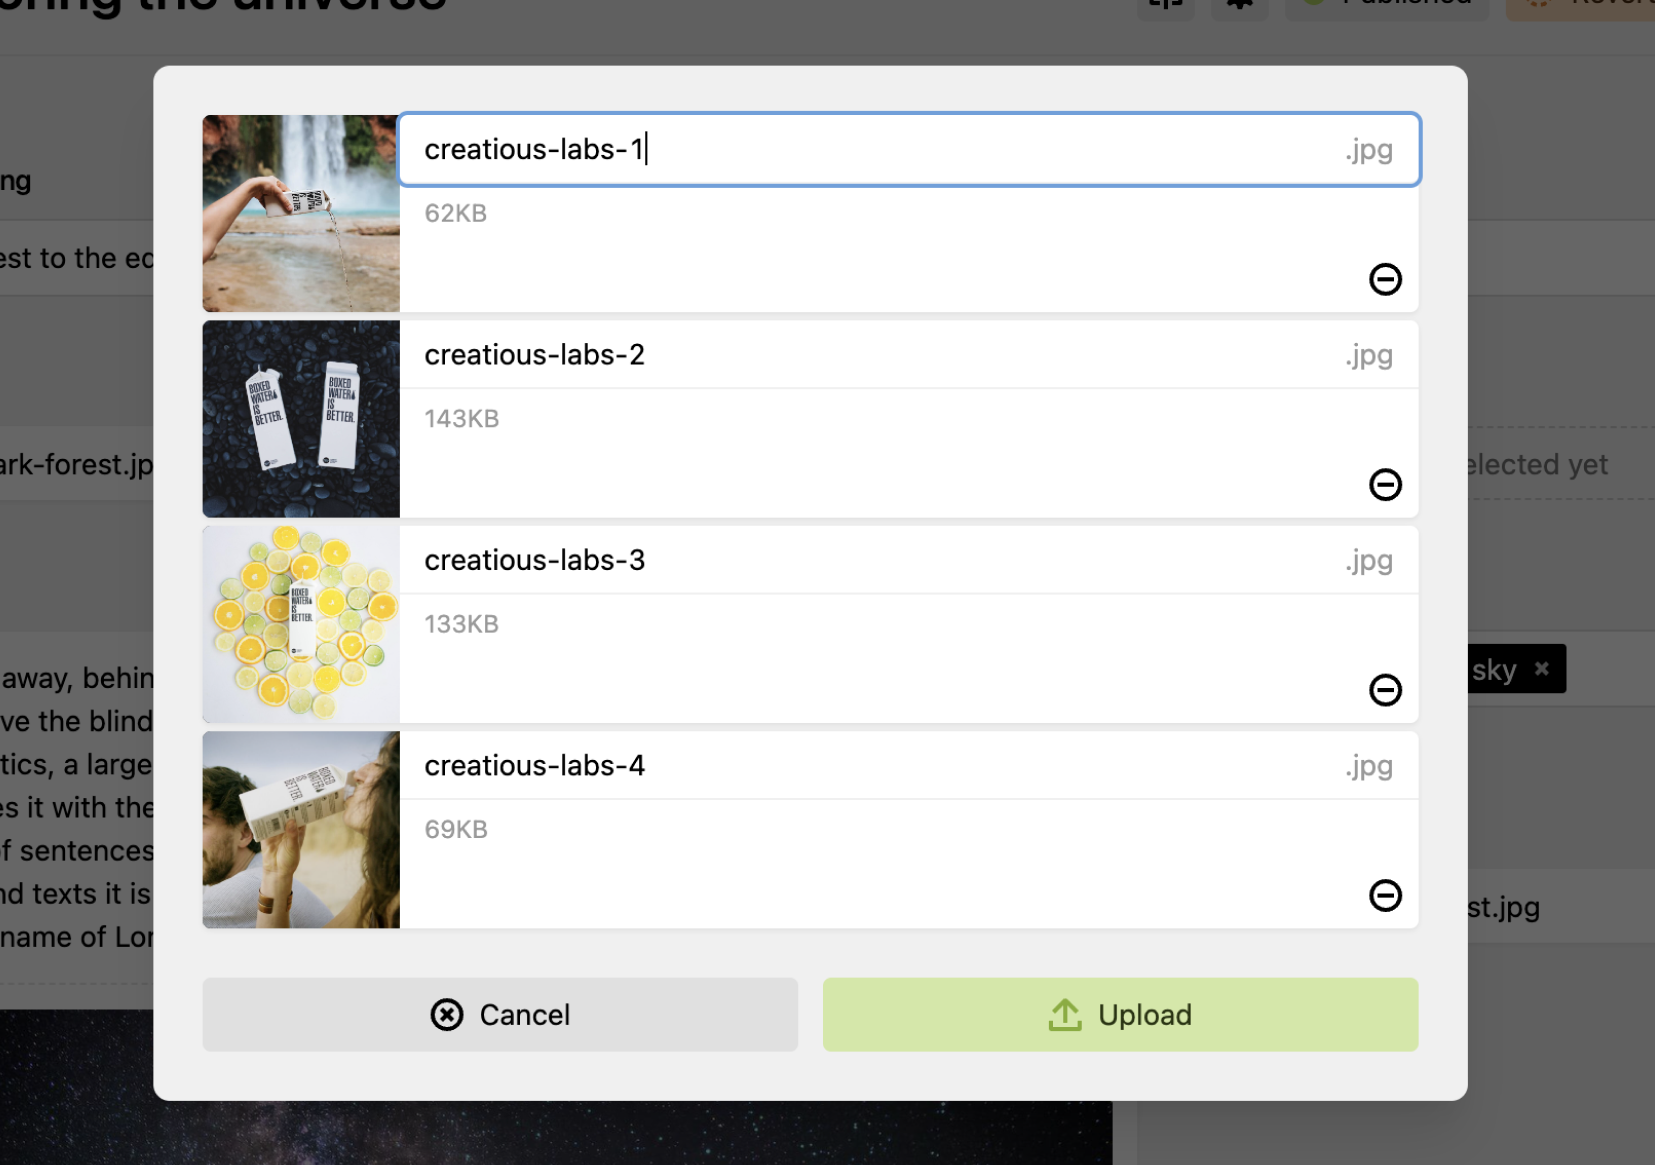
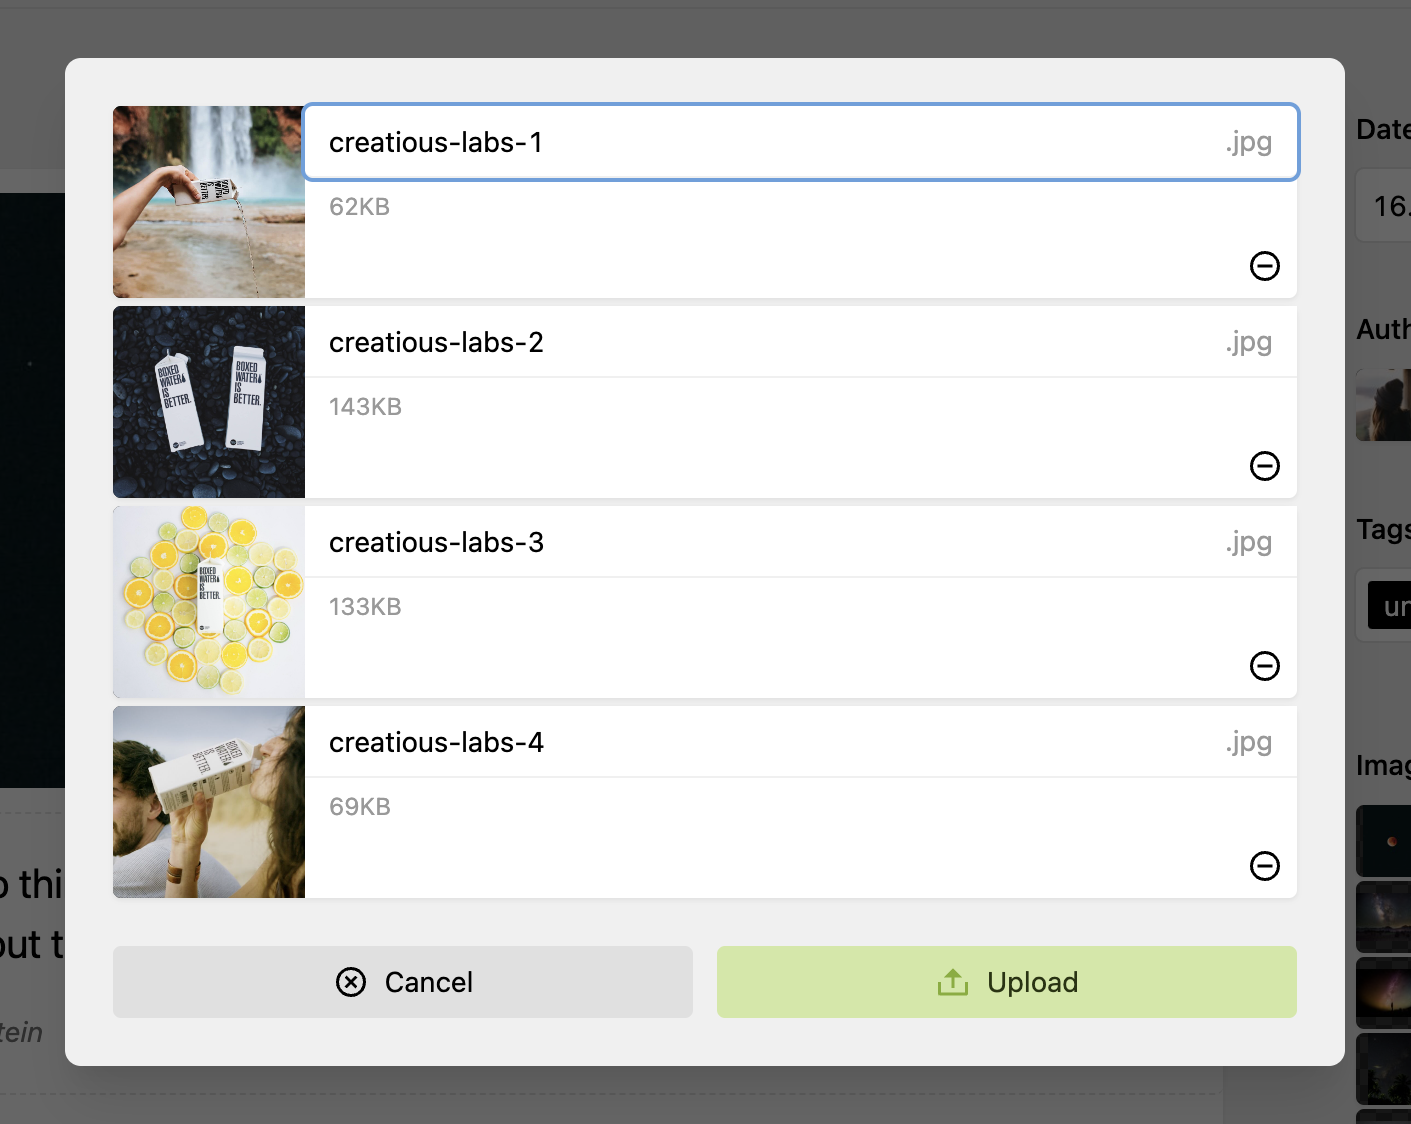
New change file template screenshot

diff --git a/content/releases/4-0/13_change-file-templates/snippet.php b/content/releases/4-0/13_change-file-templates/snippet.php
@@ -10,7 +10,7 @@
 
 @media screen and (min-width: 60rem) {
 	.v4-file-template-columns {
-		grid-template-columns: 1fr 3fr;
+		grid-template-columns: 1fr 2fr;
 		grid-template-areas:
 			"teaser view"
 		;
